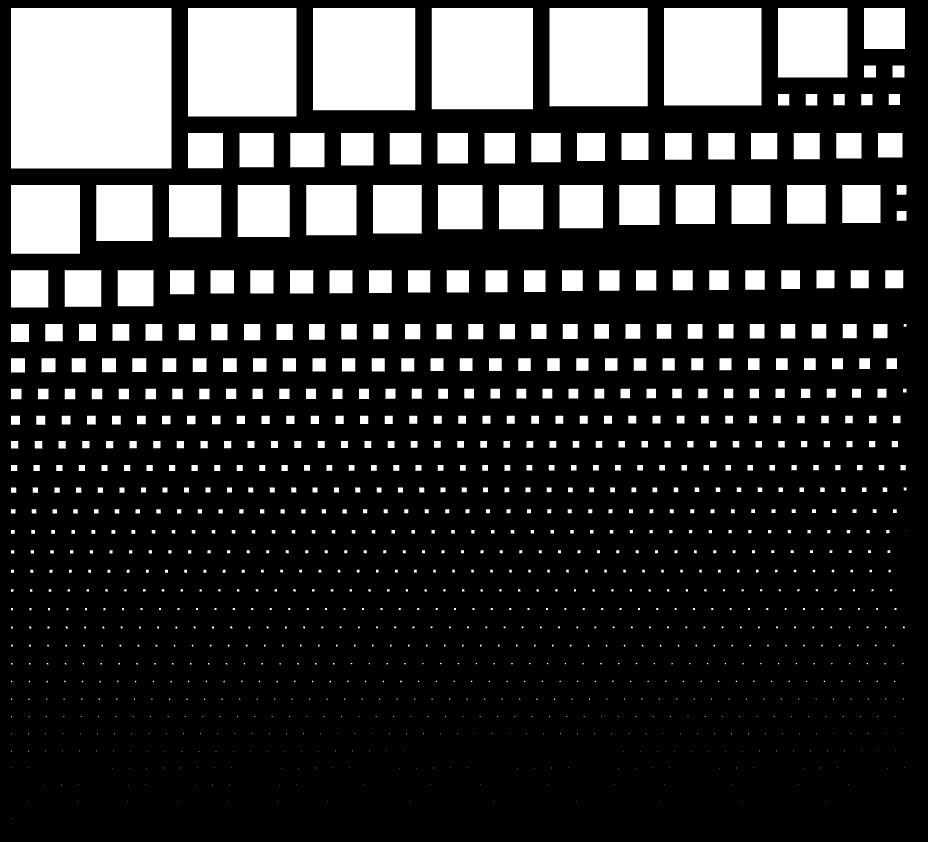
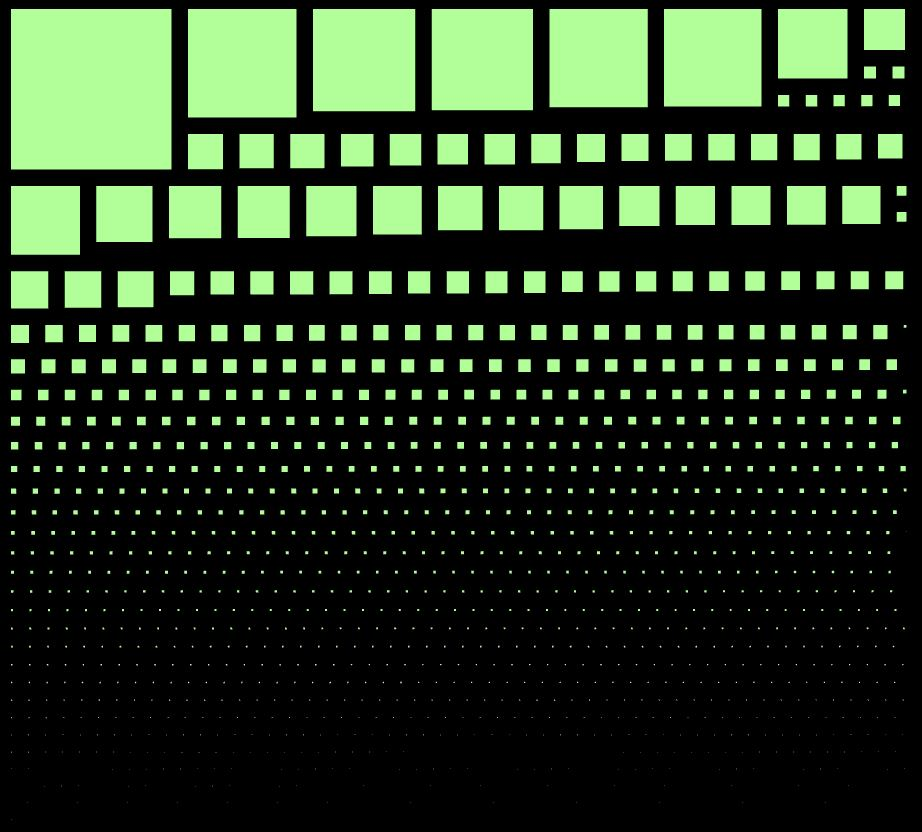
updated images

diff --git a/js/bundle.js b/js/bundle.js
@@ -150,9 +150,9 @@ module.exports = function (graphics) {
     var highlighter = new PIXI.Graphics();
     stage.addChild(highlighter);
     
-    var text = new PIXI.Text("", {font:"20px Helvetica", fill:"yellow", stroke: "black", strokeThickness: 2});
+    var text = new PIXI.Text("", {font:"20px Helvetica", fill:"white", stroke: "black", strokeThickness: 2});
     text.position.x = 50;
-    text.position.y = 50;
+    text.position.y = window.innerHeight - 100;
     stage.addChild(text);
 
     var isDragging = false,
@@ -181,7 +181,7 @@ module.exports = function (graphics) {
         var dotSizes = bf.getScaledDotSizes(bf.budgetFadeaway[word].dotSize);
         if(dotSizes.x > 0) {
           positions = bf.budgetFadeawayToGraphicsCoordinates(bf.budgetFadeaway[word].x, bf.budgetFadeaway[word].y);
-          highlighter.beginFill(0xFFFF00);
+          highlighter.beginFill(0xFFFFFF);
           highlighter.drawRect(positions.x-dotSizes.x/2, positions.y-dotSizes.y/2, dotSizes.x, dotSizes.y);
           highlighter.endFill();
         }
@@ -11953,7 +11953,7 @@ module.exports = function (graph, layout) {
   var stage = new PIXI.Stage(0x000000, true);
   var renderer = PIXI.autoDetectRenderer(width, height, null, false, true);
   renderer.view.style.display = "block";
-  document.getElementById("galaxy").appendChild(renderer.view);
+  document.getElementById("fadeaway").appendChild(renderer.view);
 
   var graphics = new PIXI.Graphics();
   graphics.position.x = 0;
@@ -11989,7 +11989,7 @@ function drawGraph(graphics) {
         var dotSizes = bf.getScaledDotSizes(bf.budgetFadeaway[word].dotSize);
         if(dotSizes.x > 0) {
           positions = bf.budgetFadeawayToGraphicsCoordinates(bf.budgetFadeaway[word].x, bf.budgetFadeaway[word].y);
-          graphics.beginFill(0xFFFFFF);
+          graphics.beginFill(0xB2FF99);
           graphics.drawRect(positions.x - dotSizes.x/2, positions.y - dotSizes.y/2, dotSizes.x, dotSizes.y);
           graphics.endFill();
         }

diff --git a/js/globalInput.js b/js/globalInput.js
@@ -63,9 +63,9 @@ module.exports = function (graphics) {
     var highlighter = new PIXI.Graphics();
     stage.addChild(highlighter);
     
-    var text = new PIXI.Text("", {font:"20px Helvetica", fill:"yellow", stroke: "black", strokeThickness: 2});
+    var text = new PIXI.Text("", {font:"20px Helvetica", fill:"white", stroke: "black", strokeThickness: 2});
     text.position.x = 50;
-    text.position.y = 50;
+    text.position.y = window.innerHeight - 100;
     stage.addChild(text);
 
     var isDragging = false,
@@ -94,7 +94,7 @@ module.exports = function (graphics) {
         var dotSizes = bf.getScaledDotSizes(bf.budgetFadeaway[word].dotSize);
         if(dotSizes.x > 0) {
           positions = bf.budgetFadeawayToGraphicsCoordinates(bf.budgetFadeaway[word].x, bf.budgetFadeaway[word].y);
-          highlighter.beginFill(0xFFFF00);
+          highlighter.beginFill(0xFFFFFF);
           highlighter.drawRect(positions.x-dotSizes.x/2, positions.y-dotSizes.y/2, dotSizes.x, dotSizes.y);
           highlighter.endFill();
         }

diff --git a/js/pixiGraphics.js b/js/pixiGraphics.js
@@ -5,7 +5,7 @@ module.exports = function (graph, layout) {
   var stage = new PIXI.Stage(0x000000, true);
   var renderer = PIXI.autoDetectRenderer(width, height, null, false, true);
   renderer.view.style.display = "block";
-  document.getElementById("galaxy").appendChild(renderer.view);
+  document.getElementById("fadeaway").appendChild(renderer.view);
 
   var graphics = new PIXI.Graphics();
   graphics.position.x = 0;
@@ -41,7 +41,7 @@ function drawGraph(graphics) {
         var dotSizes = bf.getScaledDotSizes(bf.budgetFadeaway[word].dotSize);
         if(dotSizes.x > 0) {
           positions = bf.budgetFadeawayToGraphicsCoordinates(bf.budgetFadeaway[word].x, bf.budgetFadeaway[word].y);
-          graphics.beginFill(0xFFFFFF);
+          graphics.beginFill(0xB2FF99);
           graphics.drawRect(positions.x - dotSizes.x/2, positions.y - dotSizes.y/2, dotSizes.x, dotSizes.y);
           graphics.endFill();
         }

diff --git a/index.html b/index.html
@@ -28,7 +28,7 @@
 <meta property="og:image:type" content="image/jpeg" />
 </head>
 <body onload='ngraph.main()'>
-<div class="header">Budget Fadeaway Plot: Every Line Item in the White House's 2016 Budget Proposal. Learn more <a href="http://www.anthonygarvan.com">here</a>. By Anthony Garvan.</div>
-<div id="galaxy"></div>
+<div class="header">Budget Fadeaway: Every line item in the White House's 2016 Budget Proposal, Visualized. Learn more <a href="http://www.anthonygarvan.com">here</a>. By Anthony Garvan.</div>
+<div id="fadeaway"></div>
 </body>
 </html>

diff --git a/processing/packRectangles.js b/processing/packRectangles.js
@@ -2,10 +2,10 @@
 p = require('./packer.js');
 
 var fs = require('fs');
-var wg = JSON.parse(fs.readFileSync('wordGalaxy_raw.json', 'utf8'));
+var wg = JSON.parse(fs.readFileSync('budgetFadeaway_raw.json', 'utf8'));
 
 var packer = new Packer(1,1);   // or:  new GrowingPacker();
-  
+//var packer = new GrowingPacker();  
 scale = 1;
 words =[];
 blocks = [];

diff --git a/README.md b/README.md
@@ -1,6 +1,6 @@
-# Budget Fadeaway: A Large Scale Visualization of the White House's 2016 Budget Proposal
+# Budget Fadeaway: Every line item in the White House's 2016 Budget Proposal, Visualized
 
-Every line item in the white house's 2016 budget represented by a dot whose area is proportional to its size, and positioned such that line items that correlate together historically are closer together.
+Every line item in the white house's 2016 budget represented by a square whose area is proportional to its size.
 
 For the presentation, I rely on PIXI.js, a game engine which uses WebGL when available and fails gracefully into canvas rendering. To get a headstart, I launched off [this](https://github.com/anvaka/ngraph) implementation, which is a library for plotting graphs that already had zoom & pan built in.
 
